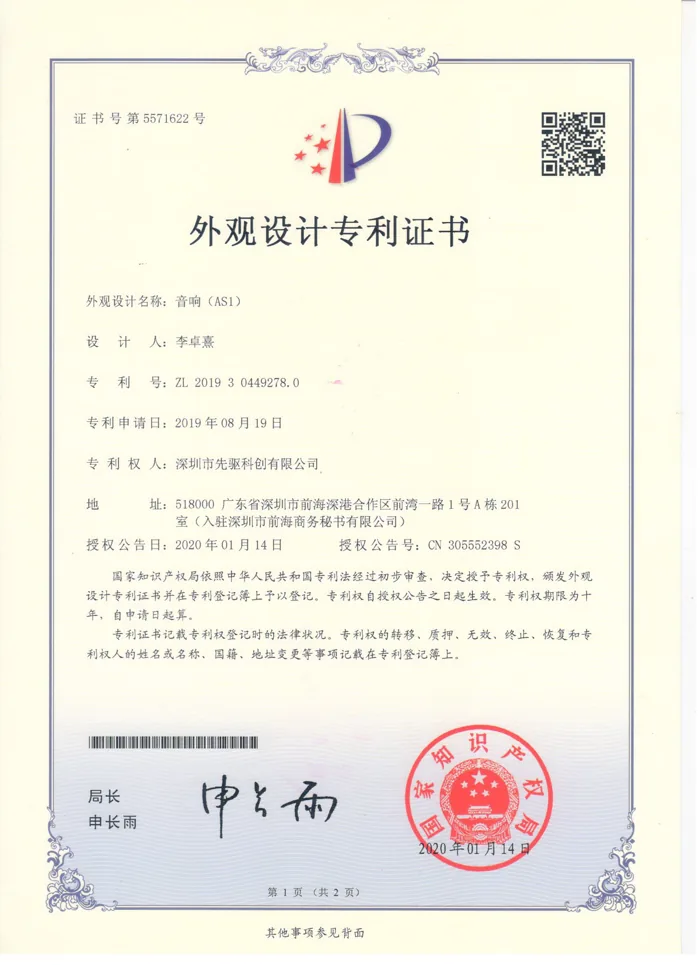
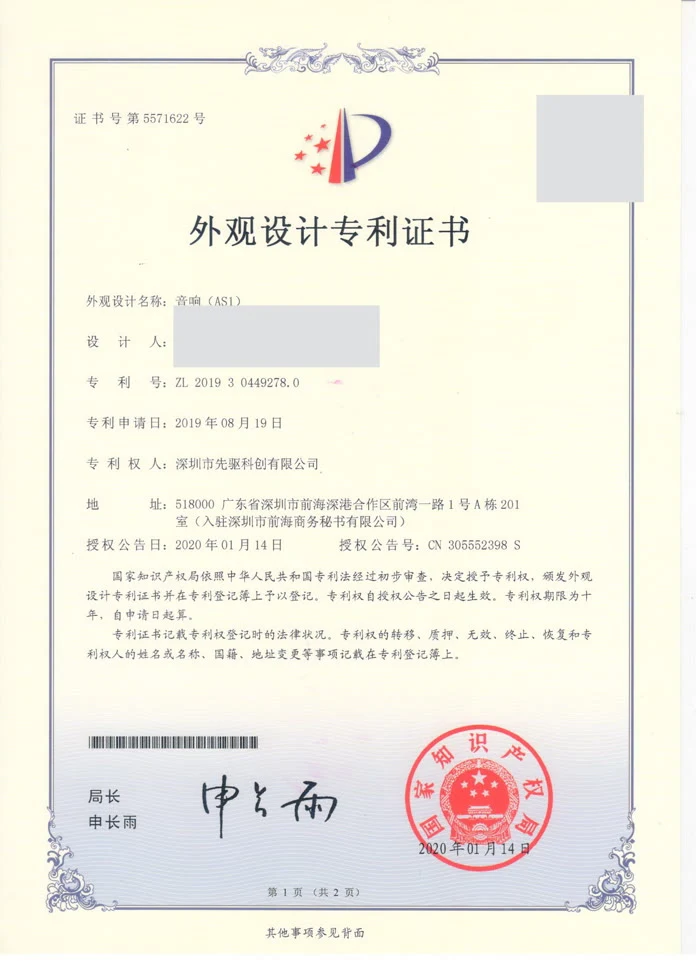
fix(site): redact patent display assets

Changed region(s): [[0.24, 0.3109, 0.54, 0.4041], [0.75, 0.0933, 0.93, 0.2176]]

diff --git a/apps/site/src/i18n/portfolio-content.test.ts b/apps/site/src/i18n/portfolio-content.test.ts
@@ -1,4 +1,5 @@
 import assert from 'node:assert/strict';
+import { createHash } from 'node:crypto';
 import { existsSync, readFileSync } from 'node:fs';
 import { test } from 'node:test';
 import { fileURLToPath } from 'node:url';
@@ -151,6 +152,23 @@ test('portfolio classifies every supplied certificate and patent accurately', ()
     assert.ok(normalized.includes(contract), `missing accurate certificate contract: ${contract}`);
   }
   assert.ok(!normalized.includes('product test report'));
+});
+
+test('published patent derivatives remain the reviewed privacy-safe versions', () => {
+  const expectedHashes = new Map([
[4 lines of base64/hex data omitted]
+  ]);
+
+  for (const [fileName, expectedHash] of expectedHashes) {
+    const file = fileURLToPath(
+      new URL(`../../public/media/portfolio/certs/${fileName}`, import.meta.url),
+    );
+    const hash = createHash('sha256').update(readFileSync(file)).digest('hex');
+    assert.equal(hash, expectedHash, `${fileName} matches the reviewed redacted derivative`);
+  }
 });
 
 test('superseded Success Stories code and TWS asset are removed', () => {
